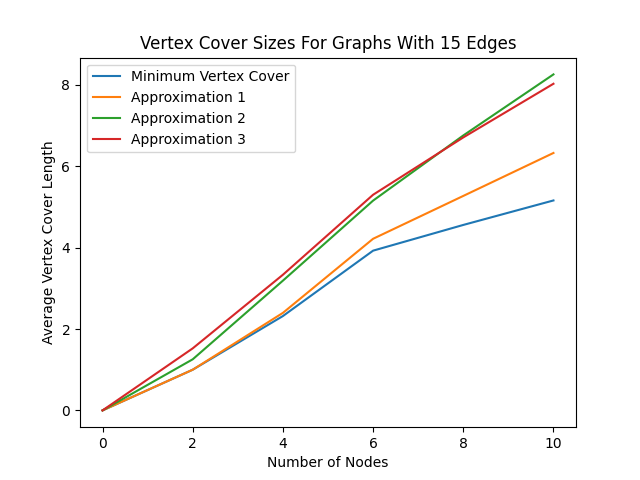
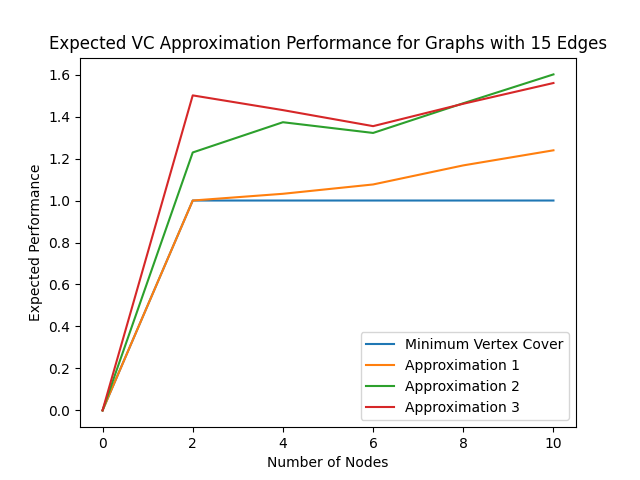
Fixed exp 3 graphs

diff --git a/Lab 2/Part 2/Exp 3/Experiment 3.py b/Lab 2/Part 2/Exp 3/Experiment 3.py
@@ -28,10 +28,17 @@ def vce_test(num_nodes, test_runs, num_edges, edgeIncrease_factor):
             approx2_sum += len(approx2(G))
             approx3_sum += len(approx3(G))
 
-        MVC_sums.append(MVC_sum / test_runs)
-        approx1_sums.append(approx1_sum / test_runs)
-        approx2_sums.append(approx2_sum / test_runs)
-        approx3_sums.append(approx3_sum / test_runs)
+        if MVC_sum == 0:
+            MVC_sums.append(0)
+            approx1_sums.append(approx1_sum)
+            approx2_sums.append(approx2_sum)
+            approx3_sums.append(approx3_sum)
+        else:
+            MVC_sums.append(MVC_sum / MVC_sum)
+            approx1_sums.append(approx1_sum / MVC_sum)
+            approx2_sums.append(approx2_sum / MVC_sum)
+            approx3_sums.append(approx3_sum / MVC_sum)
+
         track_edges.append(i)
 
 
@@ -41,8 +48,8 @@ def vce_test(num_nodes, test_runs, num_edges, edgeIncrease_factor):
     plt.plot(track_edges, approx2_sums)
     plt.plot(track_edges, approx3_sums)
     plt.xlabel('Number of Edges')
-    plt.ylabel('Average Vertex Cover Size')
-    plt.title('Vertex Cover Sizes For Graphs With ' + str(num_nodes) + ' Nodes')
+    plt.ylabel('Expected Performance')
+    plt.title('Expected VC Approximation Performance for Graphs with ' + str(num_nodes) + ' Nodes')
     plt.legend(['Minimum Vertex Cover', 'Approximation 1', 'Approximation 2', 'Approximation 3'])
     plt.show()
 
@@ -68,10 +75,17 @@ def vcn_test(num_nodes, test_runs, num_edges, nodeIncrease_factor):
             approx2_sum += len(approx2(G))
             approx3_sum += len(approx3(G))
 
-        MVC_sums.append(MVC_sum / test_runs)
-        approx1_sums.append(approx1_sum / test_runs)
-        approx2_sums.append(approx2_sum / test_runs)
-        approx3_sums.append(approx3_sum / test_runs)
+        if MVC_sum == 0:
+            MVC_sums.append(0)
+            approx1_sums.append(approx1_sum)
+            approx2_sums.append(approx2_sum)
+            approx3_sums.append(approx3_sum)
+        else:
+            MVC_sums.append(MVC_sum / MVC_sum)
+            approx1_sums.append(approx1_sum / MVC_sum)
+            approx2_sums.append(approx2_sum / MVC_sum)
+            approx3_sums.append(approx3_sum / MVC_sum)
+        
         track_nodes.append(i)
 
 
@@ -81,8 +95,8 @@ def vcn_test(num_nodes, test_runs, num_edges, nodeIncrease_factor):
     plt.plot(track_nodes, approx2_sums)
     plt.plot(track_nodes, approx3_sums)
     plt.xlabel('Number of Nodes')
-    plt.ylabel('Average Vertex Cover Length')
-    plt.title('Vertex Cover Sizes For Graphs With ' + str(num_edges) + ' Edges')
+    plt.ylabel('Expected Performance')
+    plt.title('Expected VC Approximation Performance for Graphs with ' + str(num_edges) + ' Edges')
     plt.legend(['Minimum Vertex Cover', 'Approximation 1', 'Approximation 2', 'Approximation 3'])
     plt.show()
 
